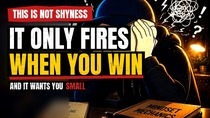
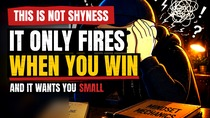
Ajusta la tipografía al tamaño real de la referencia y la encaja sola
Dos correcciones sobre la mejor miniatura del canal, medidas y no estimadas.

La palabra amarilla de THIS IS NOT ADDICTION tiene ~130 px de alto de letra
sobre 1280 de ancho; la mía tenía ~90. Anton da un alto de letra de ~0,72 del
cuerpo, así que sobre el lienzo de 1536 el cuerpo va en 205, no en 150. Y la
imagen va saturada, no apagada.

Pero un cuerpo fijo tan grande se come al personaje cuando la frase es larga
—la referencia usa palabras cortas, IT'S STILL / HUNTING—, así que ahora cada
línea encaja sola: se busca el cuerpo más grande con el que el texto cabe en
el 62% del ancho, y las dos líneas grandes se igualan entre sí para que no
queden de tamaños distintos. El texto ocupa la izquierda, la imagen la
derecha, siempre.

Claude-Session: https://claude.ai/code/session_01Xq2fTPVHwR4433bZ6zoZF2

diff --git a/produccion/miniaturas/_miniaturas.py b/produccion/miniaturas/_miniaturas.py
@@ -65,6 +65,22 @@ def buscar_base(base):
         raise SystemExit(f'no hay ningun fotograma flow_{base:03d} en {D}/')
     return os.path.join(D,cand[0])
 
+ANCHO_MAX = 0.62          # el texto nunca pasa del 62% del cuadro
+
+def encajar(txt, cuerpo_ideal, limite):
+    """Devuelve el cuerpo de letra mas grande con el que txt cabe en limite.
+
+    La referencia usa palabras cortas y llena el ancho. Con frases largas, un
+    cuerpo fijo se come al personaje, que es justo lo que la miniatura no
+    puede hacer: el texto ocupa la izquierda, la imagen la derecha.
+    """
+    for cuerpo in range(cuerpo_ideal, 60, -3):
+        f = ImageFont.truetype(F, cuerpo)
+        bb = f.getbbox(txt)
+        if bb[2]-bb[0] <= limite:
+            return f
+    return ImageFont.truetype(F, 60)
+
 def render(base, setup, cuerpo, remate, sub1, sub_rojo, salida, desplazar=0):
     """desplazar: pixeles que se corre el encuadre a la izquierda. Positivo
     empuja al personaje hacia la derecha y le deja mas aire al texto."""
@@ -77,22 +93,31 @@ def render(base, setup, cuerpo, remate, sub1, sub_rojo, salida, desplazar=0):
         t=max(0.0, 1.0-x/(W*0.66))
         dv.line([(x,0),(x,H)], fill=int(242*(t**1.15)))
     im=Image.composite(Image.new('RGB',(W,H),(5,5,9)), im, ov.filter(ImageFilter.GaussianBlur(3)))
-    im=ImageEnhance.Contrast(im).enhance(1.15).convert('RGBA')
+    im=ImageEnhance.Contrast(im).enhance(1.18)
+    im=ImageEnhance.Color(im).enhance(1.35)        # la referencia va saturada
+    im=im.convert('RGBA')
     d=ImageDraw.Draw(im)
 
     # medidas leidas de la mejor miniatura del canal (THIS IS NOT ADDICTION):
     # el bloque de texto ocupa ~55% del ancho, no ~45%
-    fset=ImageFont.truetype(F,60)
-    fbig=ImageFont.truetype(F,150)
-    fsub=ImageFont.truetype(F,48)
+    # Medidas tomadas de THIS IS NOT ADDICTION: la palabra amarilla tiene
+    # ~130 px de alto de letra sobre 1280 de ancho. Anton da ~0.72 del cuerpo,
+    # asi que sobre el lienzo de 1536 el cuerpo va en ~205.
+    lim  = int(W*ANCHO_MAX)
+    fset = encajar(setup, 76, lim)
+    fbig = encajar(cuerpo, 205, lim)
+    fbig2= encajar(remate, 205, lim)
+    fbig = fbig if fbig.size <= fbig2.size else fbig2      # las dos lineas grandes van iguales
+    fbig2= fbig
+    fsub = encajar(sub1+' '+sub_rojo, 58, lim)
 
-    bb=fset.getbbox(setup); bw=bb[2]-bb[0]+52; bh=bb[3]-bb[1]+30
+    bb=fset.getbbox(setup); bw=bb[2]-bb[0]+64; bh=bb[3]-bb[1]+36
     banda_brocha(d, 52, 44, bw, bh)
-    d.text((52+26, 44+15-bb[1]), setup, font=fset, fill=(255,255,255))
+    d.text((52+32, 44+18-bb[1]), setup, font=fset, fill=(255,255,255))
 
-    y=44+bh+30
-    texto_texturado(im,(44,y),cuerpo,fbig,(255,255,255)); y+=158
-    wrem=texto_texturado(im,(44,y),remate,fbig,(255,206,8)); y+=168
+    y=44+bh+26
+    texto_texturado(im,(44,y),cuerpo,fbig,(255,255,255)); y+=int(fbig.size*1.05)
+    wrem=texto_texturado(im,(44,y),remate,fbig2,(255,206,8)); y+=int(fbig2.size*1.12)
 
     # linea roja de brocha: sigue el ancho real de la palabra amarilla,
     # nunca un ancho fijo. Con una palabra corta la raya ya no sobresale.
